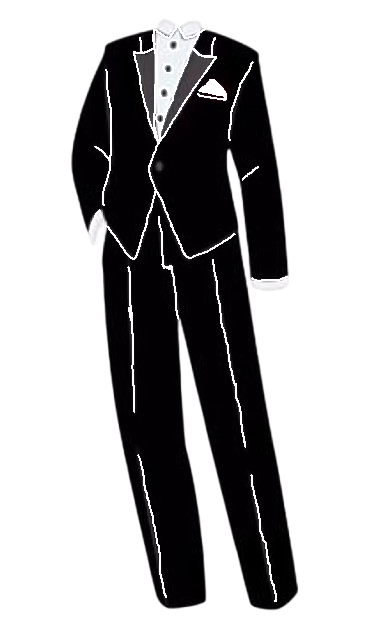
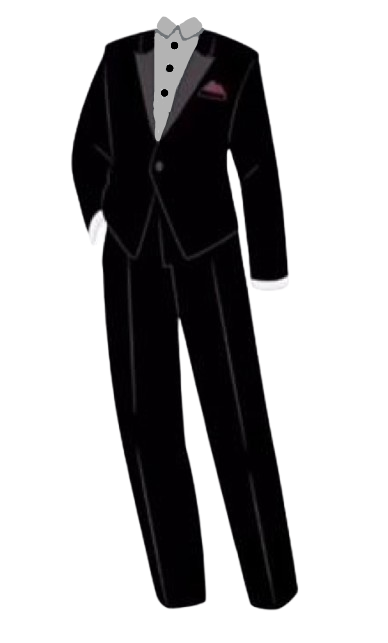
Dresscode

diff --git a/src/styles/DressCode.css b/src/styles/DressCode.css
@@ -26,7 +26,7 @@
 
 .dresscode-img-info {
   display: flex;
-  filter: brightness(0) invert(1);
+  filter: invert(100%) sepia(0%) saturate(0%) hue-rotate(100deg) brightness(100%) contrast(100%);
   align-items: center;
 }
 
